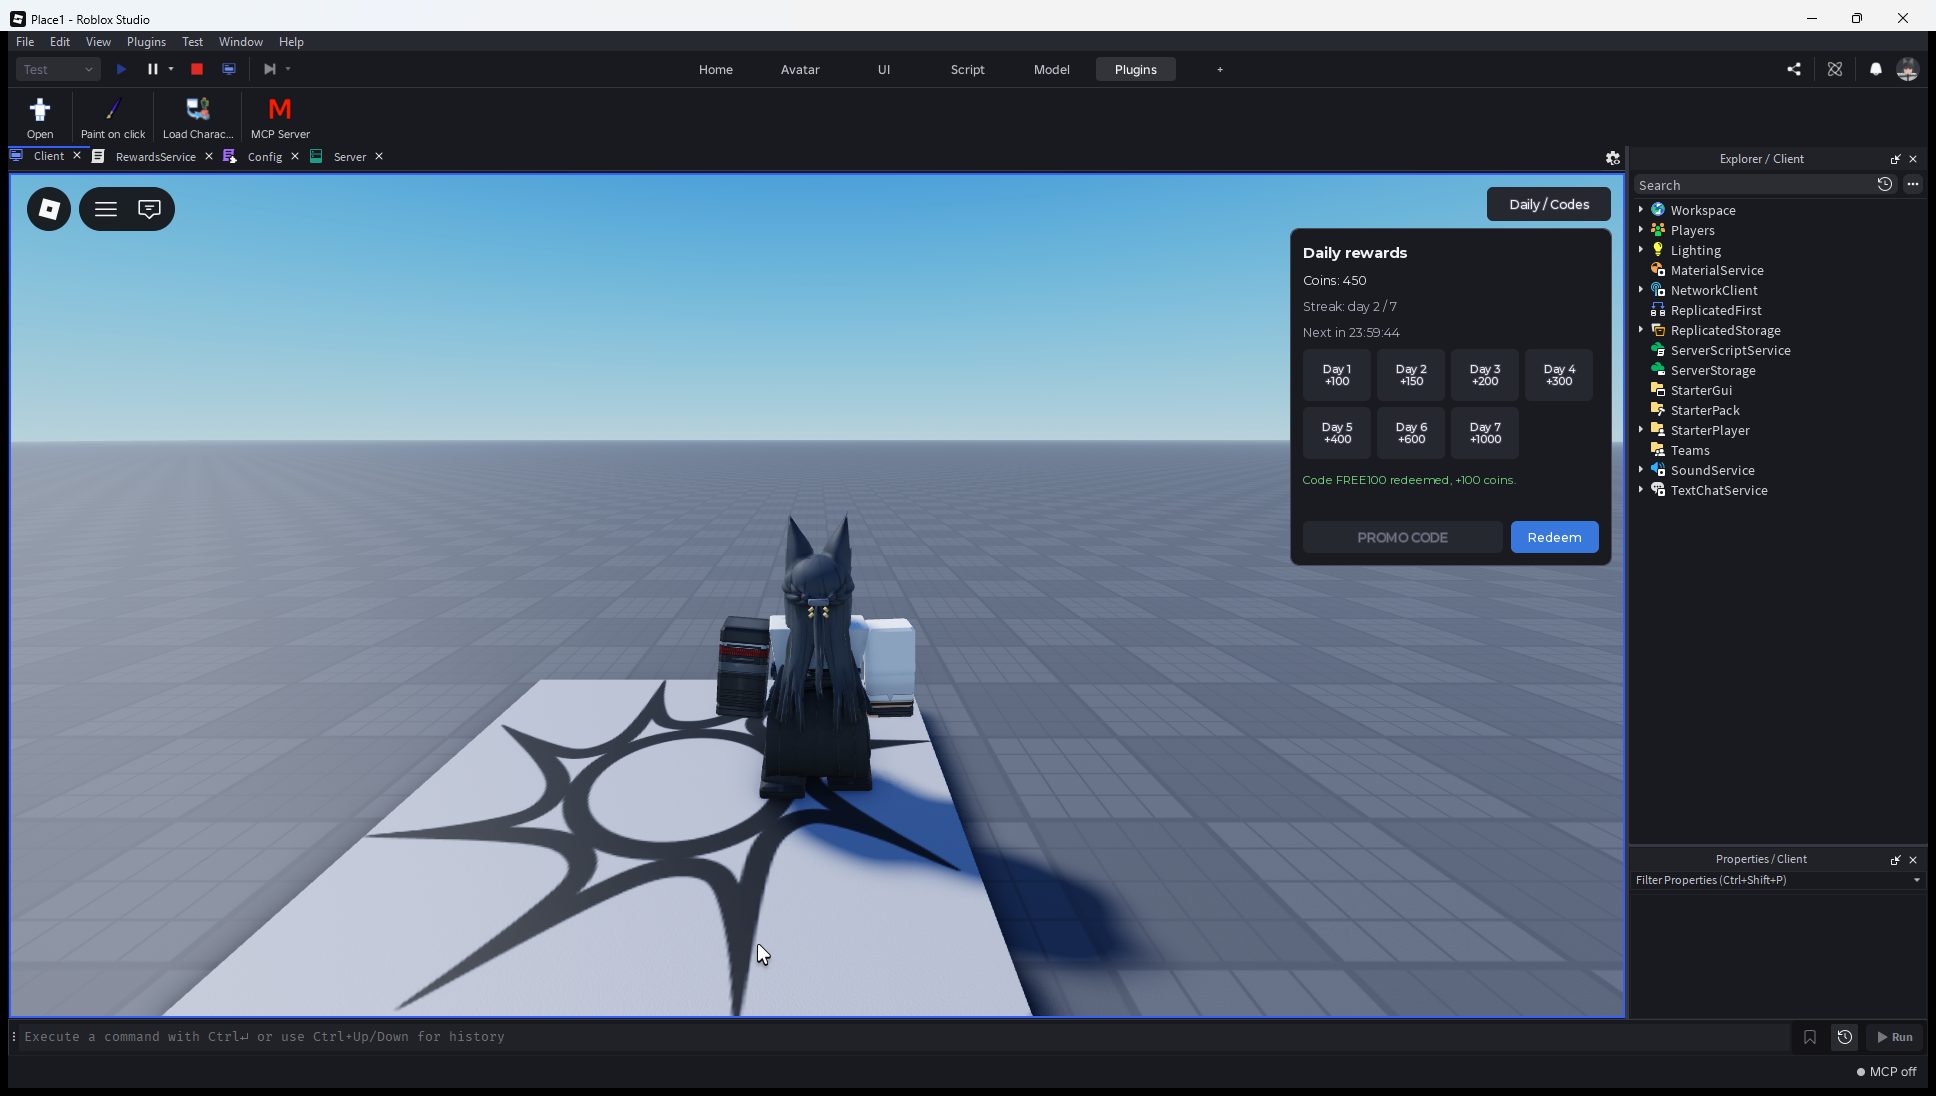
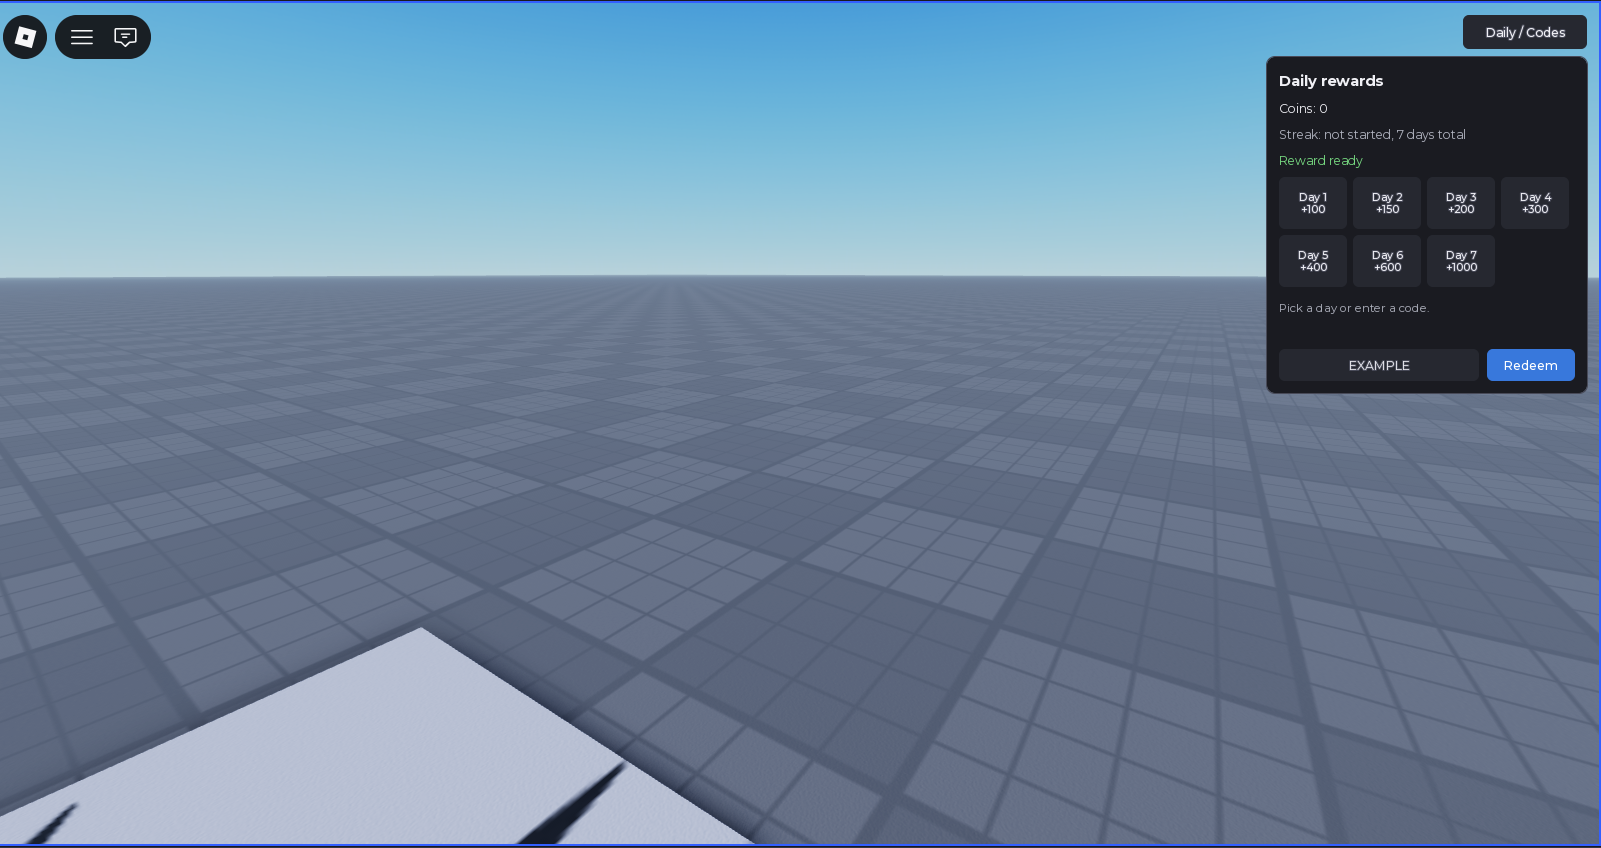
add install notes and release builds

diff --git a/README.md b/README.md
@@ -2,7 +2,19 @@
 
 Серверная часть ежедневных наград и промокодов плюс простое окно для проверки. Профиль игрока (Coins, LastClaimTime, Streak, UsedCodes) лежит в DataStore, награда выдаётся раз в 24 часа, после 48 часов простоя стрик сбрасывается на первый день. Если плейс не опубликован и DataStore недоступен, DataManager переключается на хранение в памяти, так что систему можно гонять в Studio без публикации.
 
-Раскладка в Studio:
+## Установка
+
+Готовые файлы лежат в [Releases](https://github.com/N0ctisL0ve/daily-rewards/releases/latest): пять `.rbxm` и архив с исходниками. Скачанные `.rbxm` перетаскиваются в Explorer по адресам:
+
+```
+Config.rbxm, Remotes.rbxm             -> ReplicatedStorage
+DataManager.rbxm, RewardsService.rbxm -> ServerScriptService
+RewardsUI.rbxm                        -> StarterPlayer.StarterPlayerScripts
+```
+
+Через Rojo: `rojo serve` в корне репозитория и подключение одноимённого плагина в Studio. Папку Remotes можно не создавать вручную, RewardsService сделает её сам.
+
+## Раскладка в Studio
 
 ```
 ReplicatedStorage
@@ -19,6 +31,6 @@ StarterPlayer
     RewardsUI       LocalScript
 ```
 
-Запуск через Rojo: `rojo serve` в корне репозитория и подключение одноимённого плагина в Studio. Без Rojo скрипты кладутся руками по раскладке выше, папка Remotes не обязательна: RewardsService создаст её сам. Тестовые коды в Config: FREE100 (+100) и WEEK7 (+700), OLDCODE выключен для проверки отказа.
+Тестовые коды в Config: FREE100 (+100) и WEEK7 (+700), OLDCODE выключен для проверки отказа.
 
 ![Окно наград и промокодов](docs/ui.png)
